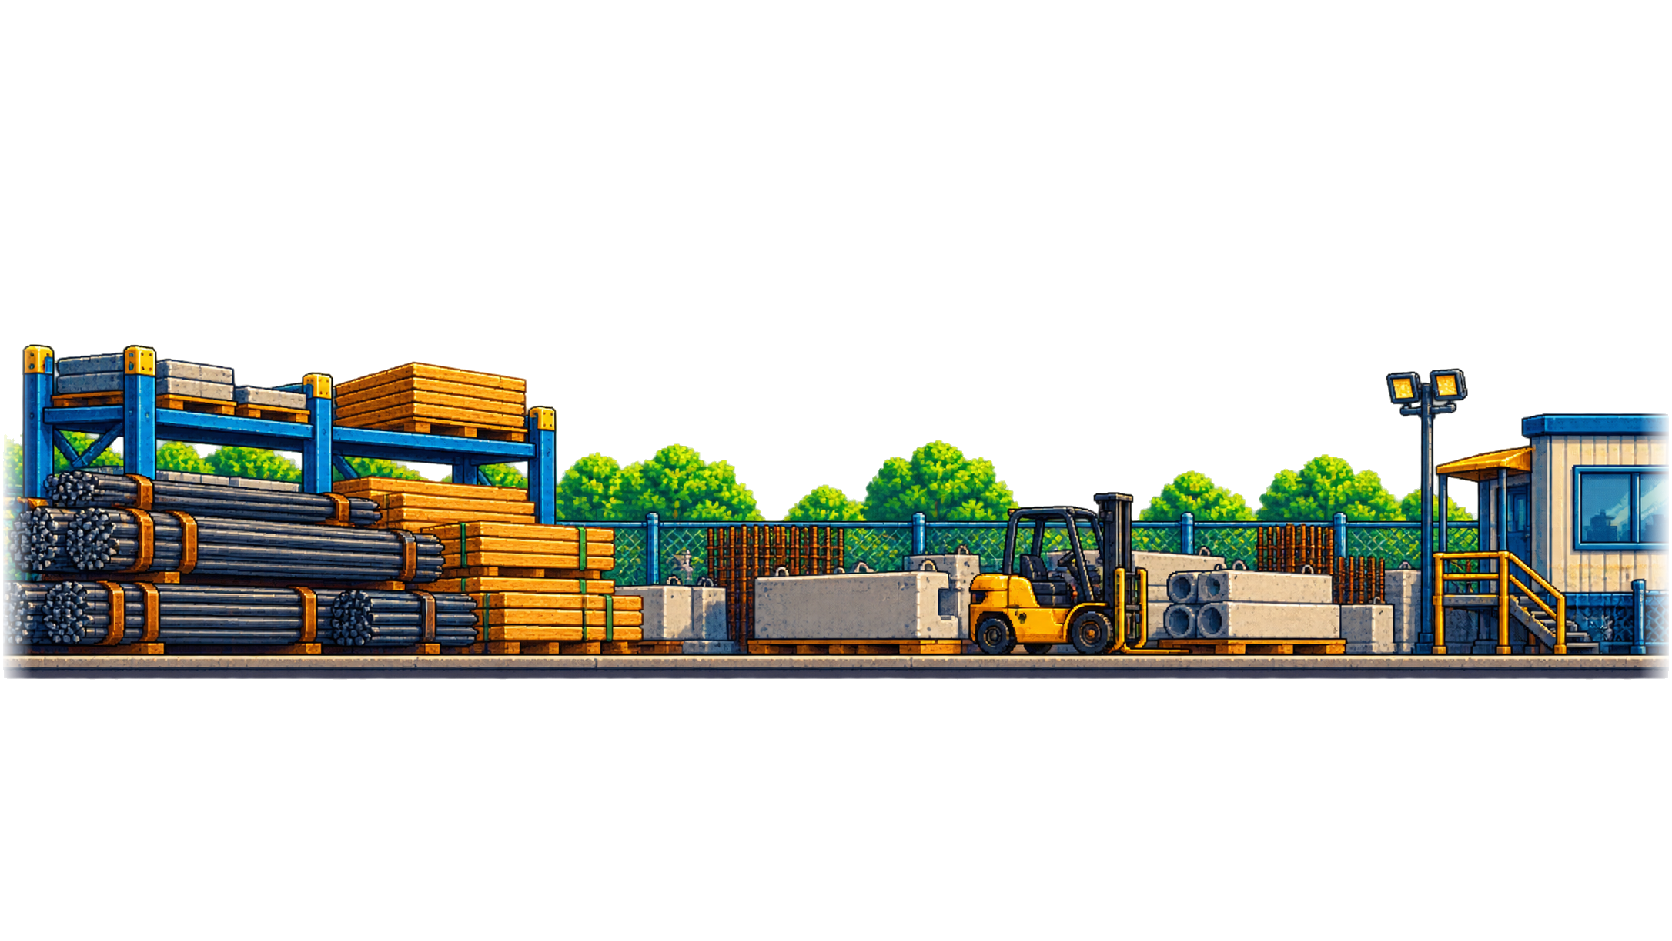
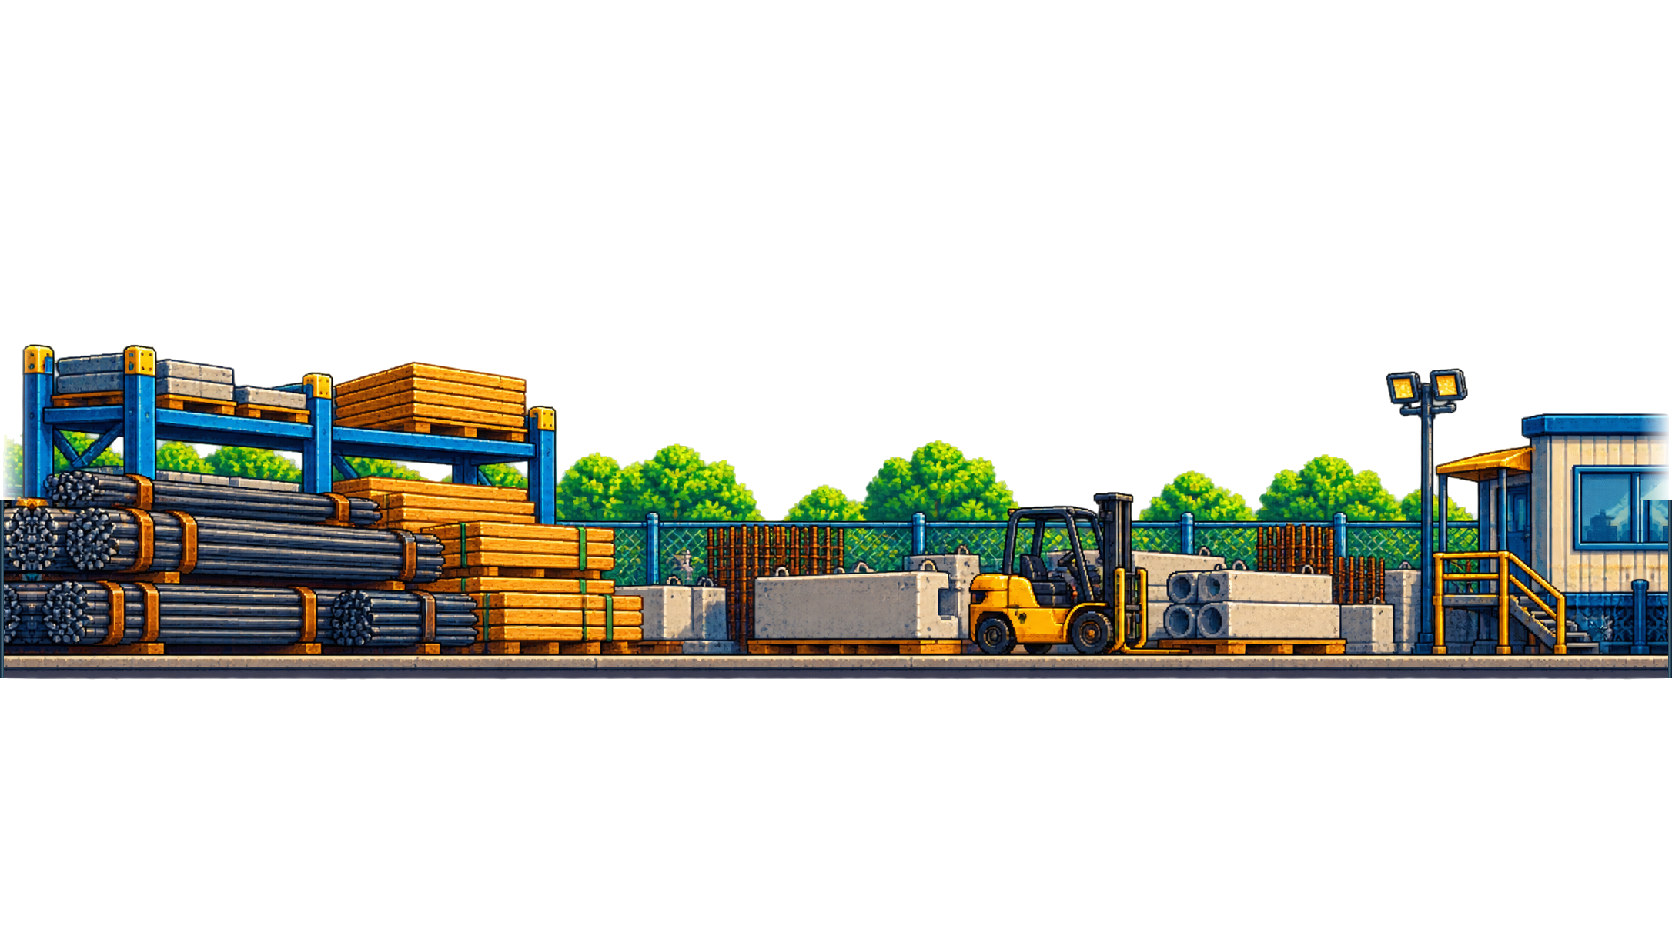
feat(월드3): 공사장 장애물 픽셀 아트와 맵 가독성 완성
Plan: 2026-10-27-world03-afternoon-construction-art
Phase: P01-world03-visuals
Task: T03-construction-props-and-qa

공사장 장애물 네 종류를 배경과 맞는 픽셀 아트로 교체
네 일반 구역과 보스 화면의 시각·기존 플레이 회귀 검증

Changed region(s): [[0.9641, 0.5239, 1.0, 0.7396], [0.0, 0.5239, 0.0311, 0.7396]]

diff --git a/.memory/phases/2026-10-27-world03-afternoon-construction-art/P01-world03-visuals/T03-construction-props-and-qa.md b/.memory/phases/2026-10-27-world03-afternoon-construction-art/P01-world03-visuals/T03-construction-props-and-qa.md
@@ -1,6 +1,6 @@
 # Task: T03 공사장 장애물 외형과 전 구간 시각 검증
 
-## Status: pending
+## Status: done
 
 ## Goal
 
@@ -80,9 +80,9 @@
 
 ## Acceptance Criteria
 
-- [ ] 네 장애물이 작은 실제 플레이 크기에서도 각각 무엇인지 식별된다. 색·외곽·햇빛 방향이 새 배경과 맞는다.
-- [ ] 장애물 4×8 배치, 체크포인트/출구, 점프 가능 간격 및 충돌 범위가 기존과 같다.
-- [ ] stage 1~4와 boss의 시작/중간/출구에서 오후 하늘·중경·지면이 끊기지 않고, 코기·코인·적이 선명하게 보인다. 월드 1·2 대표 화면은 회귀가 없다.
+- [x] 네 장애물이 작은 실제 플레이 크기에서도 각각 무엇인지 식별된다. 색·외곽·햇빛 방향이 새 배경과 맞는다.
+- [x] 장애물 4×8 배치, 체크포인트/출구, 점프 가능 간격 및 충돌 범위가 기존과 같다.
+- [x] stage 1~4와 boss의 시작/중간/출구에서 오후 하늘·중경·지면이 끊기지 않고, 코기·코인·적이 선명하게 보인다. 월드 1·2 대표 화면은 회귀가 없다.
 
 ## Validation
 
@@ -108,6 +108,13 @@ Task: T03-construction-props-and-qa
 
 ## Progress
 
-- [ ] 구현 완료
-- [ ] 검증 통과
-- commit: pending
+- [x] 구현 완료
+- [x] 검증 통과
+- commit: 완료 (Plan/Phase/Task footer로 추적)
+
+## Validation Results
+
+- 내장 이미지 생성 도구로 원본 네 스프라이트를 각각 편집했다. 최종 저장 경로는 `public/assets/pixel/objects/world-03/{traffic-cone,brick-stack,cement-bag,steel-pipe}.png`이다. 프롬프트 핵심은 “orange/cream reflective cone with blue-purple outline”, “three staggered courses of reddish clay bricks”, “folded off-white cement sack”, “blue-gray steel tubes with visible circular ends”이며 모두 오후 왼쪽 위 광원·투명 배경·큰 픽셀 덩어리를 요구했다.
+- 각 생성물의 불투명 외곽을 기존 `HITBOX`의 23×34, 34×29, 29×32, 37×23에 맞춰 규격화했다. 좌표·판정 코드는 수정하지 않았다.
+- 실제 1280×720 화면에서 stage 1~4의 시작·x≈1280·출구 근처 x≈3560과 stage 1 x≈2560, 보스 시작·전투 화면을 확인했다. 비계 구역의 원경 녹색 띠를 중경 세로 위치로 수정하고, 다섯 중경의 반복 경계를 펜스 이음부로 보정했다. 월드 1·2 대표 화면도 비교했다. QA용 임시 시작 스테이지·스폰 변경은 원본 SHA-256 해시 확인 후 복구했다.
+- `node --test scripts/world03-visual-assets.test.mjs scripts/world03-background-routing.test.mjs scripts/world03-construction-stages.test.mjs`: 11/11 통과. 에셋 검사: 136개 엔트리/117개 필수 파일 통과. 타입 검사, 지정 ESLint, 프로덕션 빌드 통과.

diff --git a/.memory/current.md b/.memory/current.md
@@ -6,29 +6,29 @@
 
 ## Active Phase
 
-[P01 월드 3 오후 공사장 시각 개선](./phases/2026-10-27-world03-afternoon-construction-art/P01-world03-visuals/phase.md)
+없음 — [P01 월드 3 오후 공사장 시각 개선](./phases/2026-10-27-world03-afternoon-construction-art/P01-world03-visuals/phase.md) 완료.
 
 ## Active Task
 
-[T03 공사장 장애물 소품과 전 구간 QA](./phases/2026-10-27-world03-afternoon-construction-art/P01-world03-visuals/T03-construction-props-and-qa.md)
+없음 — [T03 공사장 장애물 소품과 전 구간 QA](./phases/2026-10-27-world03-afternoon-construction-art/P01-world03-visuals/T03-construction-props-and-qa.md) 완료.
 
 ## Status
 
-- 월드 3 시각 개선 계획 P01 2/3. T01 공통 배경·바닥과 T02 다섯 구역 중경·라우팅 완료, T03 진행 준비.
+- 월드 3 오후 공사장 시각 개선 계획 P01 3/3 완료. T01 공통 하늘·전경·바닥, T02 다섯 구역 중경·라우팅, T03 네 장애물 아트와 브라우저 QA를 마쳤다.
 
 ## Next Step (IMPORTANT)
 
-T03 청사진을 읽고 월드 3 장애물 네 종류의 픽셀 아트를 교체한다. 전체 구역의 플레이 화면과 충돌·가독성을 확인하고 계획을 마무리한다. 기존 미커밋 작업은 보존한다.
+현재 계획의 남은 Task는 없다. 새 작업은 별도 계획/포인터로 시작한다. 기존 미커밋 작업은 보존한다.
 
 ## Previous Work Context
 
 ## Last Completed Plan
 
-[우측 상단 메뉴 컬러 픽셀 아이콘](./plans/2026-10-27-hud-menu-pixel-icons.md): 전체 2/2 완료.
+[월드 3 오후 공사장 맵 아트 개선](./plans/2026-10-27-world03-afternoon-construction-art.md): 전체 3/3 완료.
 
 ## Completed Phase
 
-[P01 메뉴 아이콘 제작과 적용](./phases/2026-10-27-hud-menu-pixel-icons/P01-menu-icons/phase.md)
+[P01 월드 3 오후 공사장 시각 개선](./phases/2026-10-27-world03-afternoon-construction-art/P01-world03-visuals/phase.md)
 
 ## 이전 작업 포인터와 기록
 

diff --git a/.memory/phases/2026-10-27-world03-afternoon-construction-art/P01-world03-visuals/phase.md b/.memory/phases/2026-10-27-world03-afternoon-construction-art/P01-world03-visuals/phase.md
@@ -6,8 +6,8 @@
 | :--- | :--- | :--- | :--- |
 | T01 | `done ✅` | 오후 3~4시 하늘·공통 전경·공사장 바닥과 팔레트 | [T01](./T01-afternoon-sky-and-ground.md) |
 | T02 | `done ✅` | 네 구역별 중경·고등어 보스 배경과 레이어 연결 | [T02](./T02-stage-and-boss-backgrounds.md) |
-| T03 | `in_progress 🔵` | 장애물 소품 교체와 전 구간 시각·게임플레이 검증 | [T03](./T03-construction-props-and-qa.md) |
+| T03 | `done ✅` | 장애물 소품 교체와 전 구간 시각·게임플레이 검증 | [T03](./T03-construction-props-and-qa.md) |
 
 ## Progress
 
-- done: 2/3 (active: T03)
+- done: 3/3 (active: 없음)

diff --git a/.memory/plans/2026-10-27-world03-afternoon-construction-art.md b/.memory/plans/2026-10-27-world03-afternoon-construction-art.md
@@ -25,7 +25,7 @@
 
 | Phase | Status | Summary | Blueprint |
 | :--- | :--- | :--- | :--- |
-| P01 | `in_progress` | 공통 오후 배경·구역별 공사장·소품 및 검증 | [P01](../phases/2026-10-27-world03-afternoon-construction-art/P01-world03-visuals/phase.md) |
+| P01 | `done ✅` | 공통 오후 배경·구역별 공사장·소품 및 검증 | [P01](../phases/2026-10-27-world03-afternoon-construction-art/P01-world03-visuals/phase.md) |
 
 ## Task Order
 
